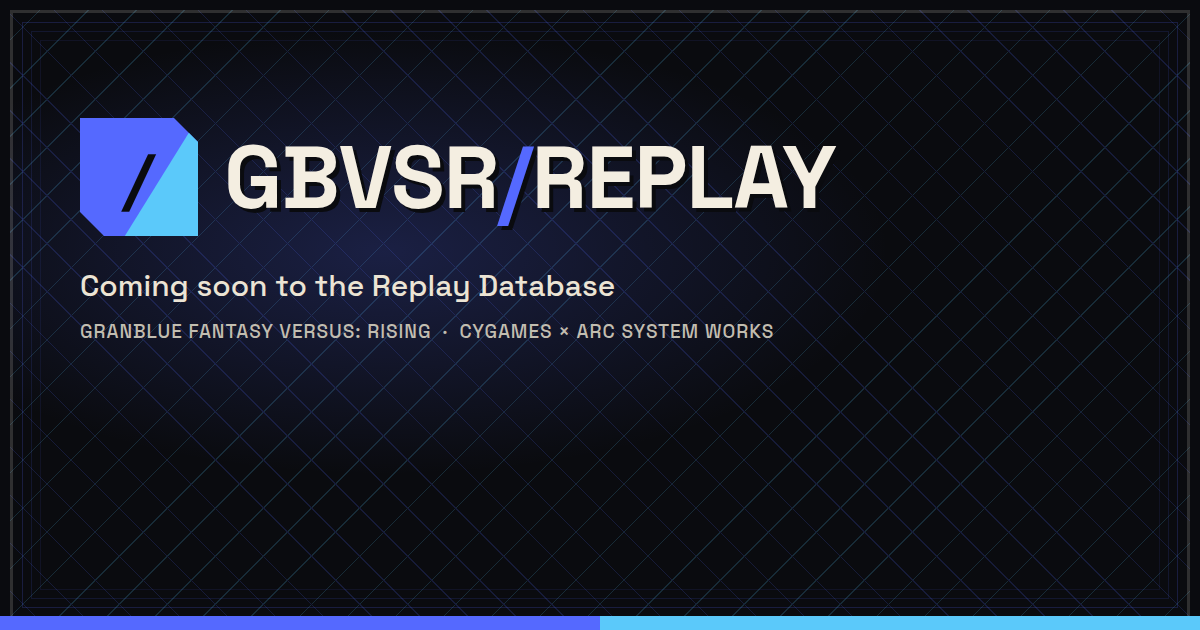
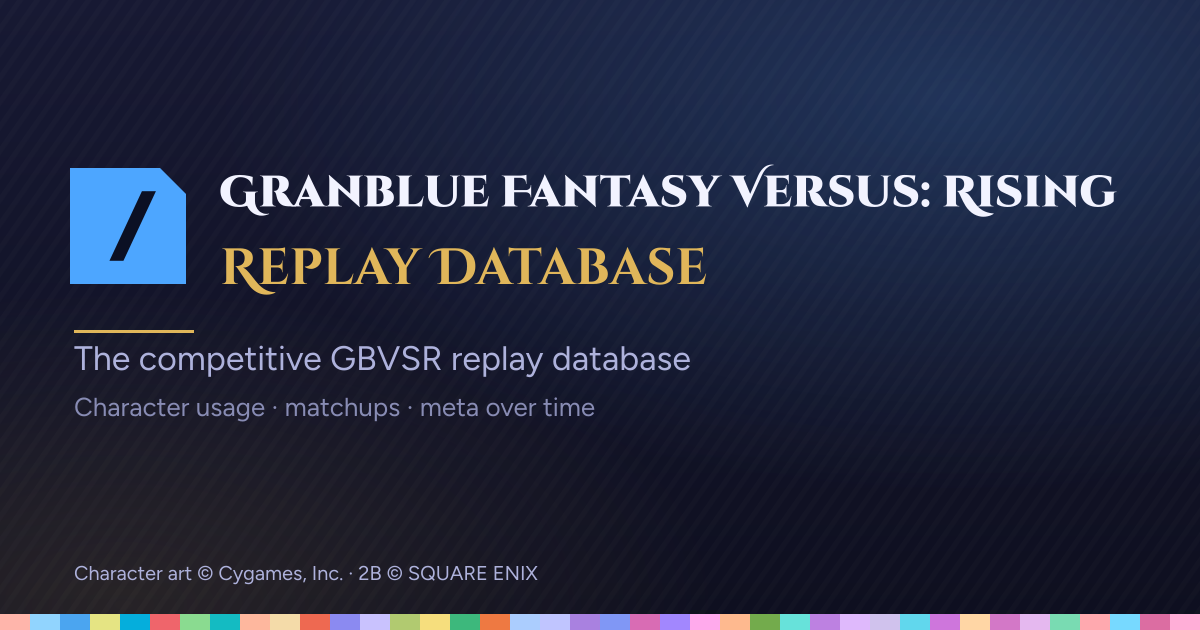
Granblue Fantasy Versus: Rising moves from Coming Soon to the seventh card
One commit, as Strive's and the held Avatar flip's are: the card, the
rewrites, the sitemap, the JSON-LD, the changelog scope and every gate
fixture that restates them land together.

THE SAME BAR, VISIBLY APPLIED. Avatar's flip is held on count A: records
outside the index source, bucketed by the UTC Monday of publishedAt, at
least 40 a week. GBVSR's count A for the last two complete weeks, from
its data/videos.json at 6361f9a:
  week of 2026-09-14: 129 (highLevelReplays 74, yumegiwa 39,
                      gbvsReplayChannel 13, kakuken 3)
  week of 2026-09-21:  91 (highLevelReplays 67, gbvsReplayChannel 19,
                      kakuken 5)
The dominant channel alone clears the bar every week. That concentration
is stated in the game's README.

A promotion is a subtraction from UPCOMING and an append to GAMES.
`fullName` is dropped, so "Granblue Fantasy Versus: Rising" leaves the DOM
and lives in the card art, the page description and verify-cutover's
summary.json assertion. The card keeps the short 'Granblue Rising'.

THE ACCENT FOLLOWED THE GAME: provisional #5569ff to the skin's
--color-primary #4da6ff. It is the closest pair on the front page: Δhue 7.0,
ΔL .016 from Tōkon's #03a5fe in OKLCH, tighter than Avatar's accepted 16.2
/ .066. It ships on the 2026-09-15 colour policy (cross-game primary
collisions accepted; wordmarks, art and labels do the identifying). Every
other live accent clears it by Δhue ≥ 60.
[…]

diff --git a/lib/games.ts b/lib/games.ts
@@ -29,15 +29,16 @@ export interface ShellGame {
    *  byte-copy of `<game-repo>/public/og-default.png`.
    *
    *  IT CONTAINS ITS OWN COPY LINE, generated by that repo's `scripts/og.ts`
-   *  (`KICKER` in SF6's, `L2` in CotW's, inline in 2XKO's and Tekken's), and
-   *  those still read "character usage · … · meta over time" — the sentence
+   *  (`KICKER` in SF6's, `L2` in CotW's, `TAGLINE` in Granblue's, inline in
+   *  2XKO's and Tekken's), and those still read "character usage · … · meta
+   *  over time" — the sentence
    *  `tagline` below was rewritten to stop repeating. The art and the card
    *  therefore disagree today. It is a 20px line inside a 1200px image, so it
    *  renders at ~5px on a card and is effectively illegible, which is why this
-   *  was accepted rather than fixed: fixing it means editing five game repos,
+   *  was accepted rather than fixed: fixing it means editing seven game repos,
    *  regenerating each og-default.png, and re-copying it here — and it changes
    *  every game's social preview as a side effect. If you ever regenerate one,
-   *  regenerate all five, and match the new taglines while you are there. */
+   *  regenerate all seven, and match the new taglines while you are there. */
   art: string;
   /** Self-hosted muted hover-loop (public path), trimmed from the game's own
    *  hero video. Plays over `art` while the selector card is hovered/focused.
@@ -231,6 +232,66 @@ export const GAMES: ShellGame[] = [
     sitemapUrl: `${SITE_URL}/ggst/sitemap.xml`,
     summaryUrl: '/ggst/data/summary.json',
   },
+  {
+    // Game #7, appended per the note above — the second PROMOTION out of
+    // UPCOMING since Tōkon's (Strive's was the first). Its coming-soon card is
+    // retired in this same commit: the announced art says "Coming soon to the
+    // Replay Database" in 40px type, so leaving it would ship a live, clickable
+    // card advertising itself as unavailable. Its register in
+    // scripts/card-art-upcoming.mjs is deleted in this commit for the same
+    // reason — that script's bare default run renders EVERY register, and a
+    // register for a live game is a command that overwrites live art with a
+    // Coming Soon tile.
+    id: 'gbvsr',
+    // The short form the coming-soon card already carried, parallel to 'MARVEL
+    // Tōkon' and 'FATAL FURY: CotW', so the heading does not move at promotion.
+    // The official title "Granblue Fantasy Versus: Rising" wraps in the title
+    // column at every regime and lives in the card art instead.
+    // NOTE: verify-cutover.mjs must use the FULL title in its own table — it
+    // asserts against summary.json, which the game emits with the full name.
+    name: 'Granblue Rising',
+    shortName: 'GBVSR',
+    slug: 'gbvsr',
+    url: '/gbvsr',
+    // The game's theme.css --color-primary, lowercased. THE CARD FOLLOWED THE
+    // GAME: the coming-soon card carried a provisional #5569ff (the key-visual
+    // logo's ultramarine, lifted for AA and pushed 8° of hue away from Tōkon),
+    // and the shipped skin took the logo's sky blue #4da6ff instead.
+    //
+    // THIS IS THE CLOSEST PAIR ON THE DOOR, and it ships on the 2026-09-15
+    // colour policy rather than by oversight. Measured in OKLCH against Tōkon's
+    // #03a5fe: Δhue 7.0, ΔL .016 — under both floors of the advisory rule below,
+    // and tighter than any collision accepted before it. The policy is what
+    // permits it: a game with a clear colour identity uses it, and the grid and
+    // the changelog badges carry wordmarks, art and text labels that do the
+    // identifying. The note on the provisional value predicted exactly this
+    // ("the logo's sky #5bc9fa … blocked outright: Δhue 14 from Tōkon") and the
+    // skin chose its identity anyway. Every other live accent clears it widely
+    // (Δhue ≥ 60 from the umbrella teal, ≥ 110 from the five warm ones).
+    accent: '#4da6ff',
+    // A byte-copy of the game repo's own public/og-default.png (1200×630,
+    // 276,134 bytes, verified with cmp), the way every sibling's was made. IT
+    // CARRIES NO KIT ART — the card is type, colour and a 40-segment roster
+    // stripe — but it does carry "Character art © Cygames, Inc. · 2B © SQUARE
+    // ENIX" baked in, because the game's pages show Fan Kit art and the notice
+    // travels with the brand (that repo's scripts/og.ts). Reused here like the
+    // other six on that reading: the clause that keeps the game's support link
+    // on its own pages covers the front door too.
+    // It inherits the copy-line disagreement described on `art` above: the
+    // lockup reads "Character usage · matchups · meta over time" while the
+    // tagline says something else. Accepted on the same terms as the others.
+    art: '/img/games/gbvsr.png',
+    // NO hover loop, deliberately, exactly as CotW and Strive shipped their own
+    // flips: the field is optional so a launch is never gated on trimming a
+    // trailer. Static art.
+    // The EX mark is the line only this archive can claim: Ver 2.20 gave three
+    // fighters an EX mode, and a record carries the mark when — and only when —
+    // its source said so. "Sets" because every intake uploads whole sets, never
+    // single games. Not a count, and it cannot go stale.
+    tagline: 'One-on-one sets, with EX mode wherever it is marked',
+    sitemapUrl: `${SITE_URL}/gbvsr/sitemap.xml`,
+    summaryUrl: '/gbvsr/data/summary.json',
+  },
 ];
 
 /**
@@ -289,12 +350,13 @@ export interface UpcomingGame {
 }
 
 // Empty from 2026-08-14 (MARVEL Tōkon's promotion into GAMES) until three games
-// were announced; two, since Guilty Gear Strive was promoted into GAMES on
-// 2026-09-09. The narrow type above is what kept that window honest, and it is
-// what keeps the remaining two out of the sitemap index and the ItemList now.
+// were announced; two once Guilty Gear Strive was promoted on 2026-09-09, and
+// ONE since Granblue Rising was promoted on 2026-10-01. The narrow type above is
+// what kept that window honest, and it is what keeps the last one out of the
+// sitemap index and the ItemList now.
 //
 // PROMOTING ONE IS A SUBTRACTION HERE AND AN APPEND THERE, in the same commit.
-// Strive's entry did not move between the arrays: UpcomingGame and ShellGame
+// Neither Strive's entry nor Granblue's moved between the arrays: UpcomingGame and ShellGame
 // share only five of their fields, so `fullName` was DROPPED (ShellGame has no
 // such field) and `url`, `sitemapUrl` and `summaryUrl` were added. The full
 // title therefore leaves the DOM at promotion — it lives in the card art and
@@ -302,9 +364,10 @@ export interface UpcomingGame {
 //
 // ORDER IS DISPLAY ORDER. Unlike GAMES — where APPEND-don't-insert protects a
 // POSITIONAL JSON-LD gate — this array reaches only the card grid, which renders
-// it in sequence. verify-shell asserts the three cards positionally too, so
-// reordering here is a deliberate act with a failing gate attached, not a silent
-// one.
+// it in sequence. verify-shell asserts the cards positionally too, so reordering
+// here is a deliberate act with a failing gate attached, not a silent one. AT
+// ONE ENTRY THAT ASSERTION PROVES NOTHING ABOUT ORDER — a one-element array is
+// in order by construction — and the next announcement restores it.
 //
 // ACCENTS ARE PROVISIONAL, and say so per entry. Each is the modal exact fill of
 // an official asset (the sampling method is in scripts/card-art-upcoming.mjs),
@@ -351,49 +414,11 @@ export const UPCOMING: UpcomingGame[] = [
     // on transparent — zero chroma, no accent to take. The key art is a painted
     // composition whose dominant fills are a cream wash and a fire red 11° from
     // Tekken. The indigo is the only viable band the official art offers.
-    // Δhue 36 from Tōkon, 90 from the umbrella teal. See the gbvsr entry for
-    // why these two are separated by lightness.
+    // Δhue 36 from Tōkon, 90 from the umbrella teal. It was separated from
+    // Granblue's provisional #5569ff by lightness while both were announced;
+    // that card is live now as #4da6ff, Δhue 33.5 from this one.
     accent: '#aeacff',
     art: '/img/games/avatar.png',
     tagline: 'Four elements · Paramount × Gameplay Group',
-  },
-  {
-    id: 'gbvsr',
-    // Granblue Fantasy Versus: Rising — "© Cygames, Inc. Developed by ARC
-    // SYSTEM WORKS", verbatim from the footer of the official site
-    // rising.granbluefantasy.jp/en/about. That single line is both credits, and
-    // the tagline carried both until the 2026-09-06 copy pass. It names CYGAMES
-    // ONLY: ASW closed the Strive line two entries up as well, and a reader
-    // scanning eight cards met the same four words twice. Cygames is the rights
-    // holder, which is the half that identifies the game.
-    // THE REASON HAS SINCE EXPIRED AND THE LINE IS KEPT ANYWAY. Strive was
-    // promoted into GAMES on 2026-09-09 and a live card's tagline describes its
-    // ARCHIVE, not its studio, so no card names ASW now and the duplication
-    // this line was shortened to avoid cannot recur. Restoring the developer
-    // credit here would be a copy change made for a reason that no longer
-    // holds; naming the rights holder was the better line on its own merits.
-    name: 'Granblue Rising',
-    fullName: 'Granblue Fantasy Versus: Rising',
-    shortName: 'GBVSR',
-    slug: 'gbvsr',
-    // PROVISIONAL. Sampled from the official key-visual logo
-    // (rising.granbluefantasy.jp/assets/images/kv_logo.9880ca03.png): the
-    // ultramarine #0000c8 is 72.5% of its flat fills. Lifted L .376 → .593 for
-    // AA (the sampled value is 1.75:1) and carried +8° of hue, which is what
-    // buys Δhue 28 from Tōkon's #03a5fe. At the sampled hue it could only clear
-    // Tōkon on lightness, and every lightness dark enough to do that fails AA —
-    // the same squeeze Strive's red hit, resolved the other way because this
-    // hue had somewhere to go and that one did not.
-    // The logo's sky #5bc9fa was the obvious alternative and is blocked
-    // outright: Δhue 14 from Tōkon with ΔL .096, under both floors. It survives
-    // as the card art's second hue instead.
-    // SIBLINGS, DELIBERATELY: this and Avatar are the only two cards the
-    // official art puts in the same band (Δhue 12), and at 2-up they share the
-    // last grid row. They are separated by lightness — ΔL .185, half again the
-    // floor — a deep royal blue beside a pale periwinkle. Anyone re-sampling
-    // either one has to re-check the pair, not just the live five.
-    accent: '#5569ff',
-    art: '/img/games/gbvsr.png',
-    tagline: "Cygames' Granblue cast, one on one",
   },
 ];

diff --git a/app/pages/index.vue b/app/pages/index.vue
@@ -165,19 +165,17 @@
              The affordance is therefore the PERSISTENT badge — always rendered,
              always in the accessibility tree — not a hover reveal, which would
              leave the card looking simply broken on touch.
-             NO REGIME HAS A MIXED ROW TODAY, and this comment used to claim
-             every one did. That was true at five live cards and three
-             announced; Strive's promotion on 2026-09-09 made it six and two,
-             which packs as [3,3][2] at 3-up and [2,2,2][2] at 2-up — every row
-             is all-live or all-announced, and at 1-up nothing shares a row at
-             all. So the reserved .count-slot below is DORMANT, not load-bearing,
-             and nothing in the gates would notice if it were deleted: the
-             `every grid row is level` check passes either way while the counts
-             happen to be even. It stays because the next promotion or the next
-             announcement re-creates the mixed row — it was dormant from Tōkon's
-             promotion until CotW's launch for exactly the same reason — and
-             because a card that changes height when its neighbour's count
-             resolves is the regression it was written to prevent. -->
+             EVERY MULTI-COLUMN REGIME HAS A MIXED ROW AGAIN. At six live and
+             two announced (Strive's flip, 2026-09-09) no row mixed the two
+             kinds; Granblue Rising's promotion on 2026-10-01 makes it SEVEN
+             live and ONE announced, and [3,3][2] at 3-up and [2,2,2][2] at
+             2-up both put the announced card beside the last LIVE one. So the
+             reserved .count-slot below levels against a card that renders a
+             replay count rather than against another blank — the case it was
+             written for. (The held avatar-flip branch measured that grid
+             stretch, not this slot, equalizes the row HEIGHT, and that the slot
+             buys the announced card's bottom-anchored text position instead;
+             reconcile the two comments when that branch rebases.) -->
         <article
           v-for="u in upcoming"
           :key="u.id"
@@ -218,10 +216,9 @@
               u.tagline
             }}</span>
             <!-- Matches the live cards' reserved count line so this card's
-                 height stays theirs. At six live and two announced it levels
-                 against the other announced card — another blank — because no
-                 regime pairs a live card with an announced one any more; see
-                 the grid comment above for why it is kept regardless.
+                 height stays theirs. At seven live and one announced it sits
+                 beside a LIVE card carrying a rendered replay count, in both the
+                 2-up and the 3-up regime; see the grid comment above.
                  NOT class="count" — that's a gate hook and the gates count
                  non-empty ones.
                  Its live counterpart shares its row with the "Browse →" CTA;
@@ -363,7 +360,7 @@ useSiteMeta({
     // LIVE games only. The announced ones on the selector stay out: this is the
     // search snippet, and promising a game a visitor cannot browse is the same
     // lie the UPCOMING type forbids in the sitemap and the ItemList.
-    'The competitive fighting-game replay archive. Browse and filter replays for 2XKO, Tekken 8, Street Fighter 6, MARVEL Tōkon, FATAL FURY: City of the Wolves and Guilty Gear Strive — character usage, matchups, pairings, and meta over time, all in one place.',
+    'The competitive fighting-game replay archive. Browse and filter replays for 2XKO, Tekken 8, Street Fighter 6, MARVEL Tōkon, FATAL FURY: City of the Wolves, Guilty Gear Strive and Granblue Fantasy Versus: Rising — character usage, matchups, pairings, and meta over time, all in one place.',
 });
 
 // ItemList JSON-LD enumerating the games (PLAN §5 A.6) — the apex's structured
@@ -427,9 +424,9 @@ useJsonLd([
 }
 /* The hero pill swaps its text client-side too, and the upgraded string
    ("39,189 replays across 5 games" as measured when this was written — LIVE
-   games only, announced ones never reach this count; it reads six games and a
-   far larger total since Strive) wraps to two lines on narrow viewports
-   where the fallback ("6 games in the archive") does not — which pushed the
+   games only, announced ones never reach this count; it reads seven games and a
+   far larger total since Strive and Granblue) wraps to two lines on narrow
+   viewports where the fallback ("7 games in the archive") does not — which pushed the
    whole card grid down 18px the moment the counts landed (measured at 320 and
    360 px). Below sm, reserve both lines up front; from sm up neither string
    wraps, so the pill keeps its natural single-line height. The breakpoint is

diff --git a/lib/changelog.ts b/lib/changelog.ts
@@ -62,7 +62,16 @@
  *  app/pages/changelog.vue. The last is a Record<Scope, string>, so omitting it
  *  is a typecheck failure rather than a badge that quietly renders its slug. */
 export type Scope =
-  'platform' | 'engine' | 'shell' | '2xko' | 'tekken' | 'sf6' | 'tokon' | 'ffcotw' | 'ggst';
+  | 'platform'
+  | 'engine'
+  | 'shell'
+  | '2xko'
+  | 'tekken'
+  | 'sf6'
+  | 'tokon'
+  | 'ffcotw'
+  | 'ggst'
+  | 'gbvsr';
 
 /** launch = a game or the platform itself going live · feature = something new
  *  to use · data = matches or fields arriving · improvement = something that
@@ -84,6 +93,37 @@ export interface ChangelogEntry {
 }
 
 export const CHANGELOG: ChangelogEntry[] = [
+  {
+    // gbvsr-replay-database, launch. Every number frozen from that repo's
+    // data/replays.json at 6361f9a (2026-10-01): 15,743 published records, the
+    // earliest dated 2023-12-11 (the vendor's early access, three days before
+    // the December 14 release), 1,708 of them carrying a startSeconds (Replay
+    // Theater tournament segments), 284 carrying an EX mark, 104 with Id on a
+    // side, 246 on Ver 2.60, the newest patch.
+    //
+    // "SETS", as Strive's row says, and for the same reason: the dominant
+    // channel's median upload is 448s against a ~3-minute game, and the
+    // catalogue's consecutive tournament rows sit a median 559s apart, splitting
+    // only where a player changes fighter. So a channel record and a catalogue
+    // segment are BOTH sets here, unlike Strive, where segments are single
+    // matches. The body says "cut from event streams" without calling them
+    // matches.
+    //
+    // THE EX SENTENCE is the one only this archive can write: Ver 2.20 gave
+    // Gran, Djeeta and Narmaya an EX mode, the vendor roster still lists 40
+    // fighters, and a record carries the mark only when its source wrote it. The
+    // body says "marked" on purpose; an unmarked record is unknown, not base.
+    //
+    // Id is named because she is the newest fighter and the one a visitor is
+    // most likely to look up in launch week; 104 is a frozen launch count. The
+    // roster size is absent on purpose, exactly as Strive's and CotW's rows omit
+    // theirs: a fighter count goes stale with the next character pass.
+    date: '2026-10-01',
+    scope: 'gbvsr',
+    kind: 'launch',
+    title: 'Granblue Fantasy Versus: Rising joins the archive',
+    body: 'Granblue Fantasy Versus: Rising joins Replay Database with 15,743 replays, running from the December 2023 early access through Version 2.60. They are whole sets, as the channels upload them; 1,708 are cut from tournament streams, so opening one starts the video at that set. Gran, Djeeta and Narmaya can be filtered by EX mode wherever a source marked it (284 replays at launch), and Id, the newest fighter, already had 104.',
+  },
   {
     // ffcotw 0e499f8 (the roster row, deployed 2026-09-24 13:29 UTC) and
     // b4359b9 (the Ver.3.2.2 patch row, applied by that day's refresh 52e46d4).

diff --git a/app/pages/changelog.vue b/app/pages/changelog.vue
@@ -107,6 +107,7 @@ const SCOPE_LABELS: Record<Scope, string> = {
   tokon: 'Tōkon',
   ffcotw: 'CotW',
   ggst: 'Strive',
+  gbvsr: 'Granblue',
 };
 const scopeLabel = (scope: Scope): string => SCOPE_LABELS[scope] ?? scope;
 

diff --git a/README.md b/README.md
@@ -266,9 +266,12 @@ A game that has been announced but has no replays yet goes in **`UPCOMING`**, no
    and at least AA on the card ground (Tekken's `#e13048` is the floor at
    4.50:1 — the badge sets 11px text in this colour). Occupied hues today:
    2XKO 2 · Tekken 20 · SF6 52 · Strive 82 · CotW 93 · umbrella teal 190 ·
-   Tōkon 244 · Granblue 272 · Avatar 284. FATAL FURY and Strive both demoted
+   Tōkon 244 · Granblue 251 · Avatar 284. FATAL FURY and Strive both demoted
    their own sampled reds for landing ~11° from Tekken; assume the obvious
-   sample is taken and check before committing to it.
+   sample is taken and check before committing to it. (Granblue went live on
+   2026-10-01 at its skin's sky blue, 7° from Tōkon — a collision the
+   2026-09-15 colour policy accepts across games; the rule above still binds an
+   announced card's provisional accent.)
 6. `npm run generate && npm run verify:shell` — the gates assert one `ItemList`
    entry per LIVE game and one sitemap child per live game plus the page
    sitemap (an upcoming game adds to neither), that every upcoming card has no
